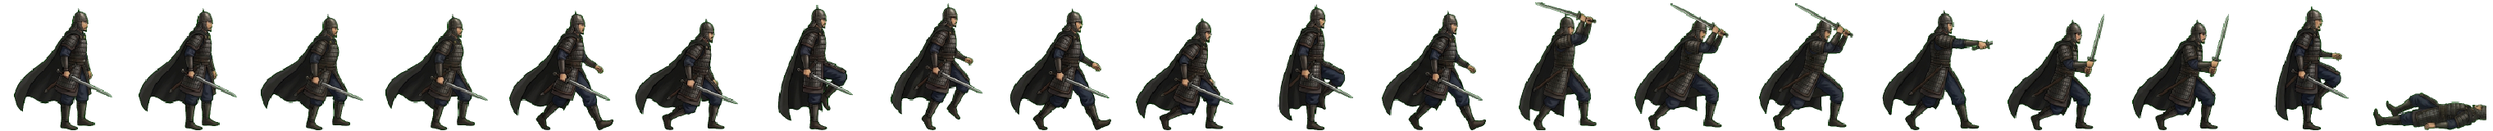
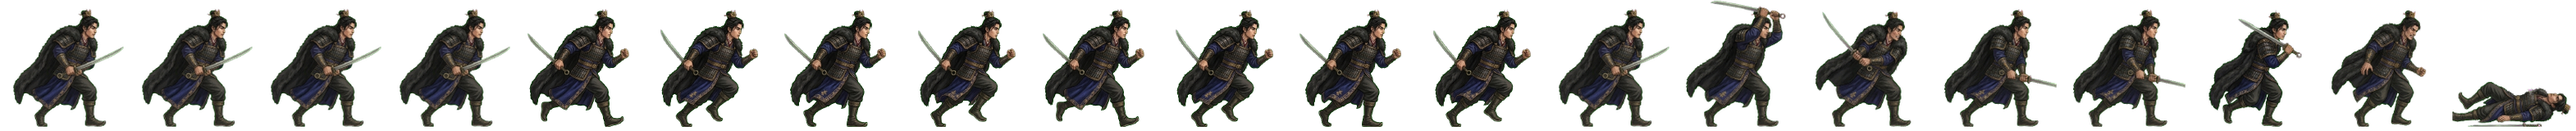
전투 띠 다시: 온조 초상대로 (작은 금관·남색 왕복·검은 털 망토 · 투구를 벗김) (형 11-08)
Claude-Session: https://claude.ai/code/session_01TRiuNAG8xSjdmjCFpc8Rd5

Changed region(s): [[0.0, 0.0, 1.0, 1.0], [0.5938, 0.0312, 0.625, 0.0625]]

diff --git a/src/realm/data/art.ts b/src/realm/data/art.ts
@@ -473,7 +473,7 @@ export const GEN_ANIM: Readonly<Partial<Record<string, { ar: number; body: numbe
   mount: { ar: 246 / 160, body: 0.968 },
   // 제 그림 (GEN_OWN) — 글 주문만으로 받은 장수 (docs/realm/GENERAL-SPRITES.md)
   jumong: { ar: 156 / 160, body: 0.961, bow: true }, // 11-03 20컷 다시 (걷기가 한 자세였다 · 우하단 칸은 비워 받음)
-  onjo: { ar: 152 / 160, body: 0.928 }, // 11-03 20컷 다시 (걷기가 한 자세였다 · 우하단 별표 칸은 따로 받아 끼움) // 첫 판은 불꽃 금관이라 버리고 쇠투구로 다시 (형 10-30: "금관은 왕의 것이지, 장수의 것이 아니야")
+  onjo: { ar: 157 / 160, body: 0.900 }, // 11-08 초상대로 다시 (형: 「투구 쓰고 원본과 다르다」 · 제미나이 걷기 4×2 + 동작 4×2 → 20컷 · assets_src/realm/gemini/generals2)
   soseono: { ar: 156 / 160, body: 0.900 }, // 11-08 초상대로 다시 (형: 「투구 쓰고 원본과 다르다」 · 제미나이 걷기 4×2 + 동작 4×2 → 20컷 · assets_src/realm/gemini/generals2) · 전투 옷은 더 드러나게 (형 11-08)
   aryeong: { ar: 157 / 160, body: 0.900 }, // 11-08 초상대로 다시 (형: 「투구 쓰고 원본과 다르다」 · 제미나이 걷기 4×2 + 동작 4×2 → 20컷 · assets_src/realm/gemini/generals2) · 전투 옷은 더 드러나게 (형 11-08)
   haedal: { ar: 149 / 160, body: 0.900, bow: true }, // 11-08 초상대로 다시 (형: 「투구 쓰고 원본과 다르다」 · 제미나이 걷기 4×2 + 동작 4×2 → 20컷 · assets_src/realm/gemini/generals2) · 전투 옷은 더 드러나게 (형 11-08)

diff --git a/src/ui/realm/battle-strikes.ts b/src/ui/realm/battle-strikes.ts
@@ -142,7 +142,7 @@ const CONTACT: Readonly<Record<string, [number, number, number]>> = {
   'gen-daeso': [14, 0.95, 0.34], 'gen-eureum': [14, .95, .13], 'gen-gamsil': [14, .92, .69],
   'gen-haebi': [14, 0.87, 0.53], 'gen-heo': [14, .97, .38], 'gen-hyeokgeose': [14, 0.83, 0.94],
   'gen-hyeopbo': [14, .93, .21], 'gen-malgalgi': [14, 0.88, 0.28], 'gen-mari': [14, .98, .47],
-  'gen-oi': [14, .98, .48], 'gen-onjo': [15, .98, .33], 'gen-soebi': [14, 0.80, 0.95],
+  'gen-oi': [14, .98, .48], 'gen-onjo': [14, 0.83, 0.93], 'gen-soebi': [14, 0.80, 0.95],
   'gen-soseono': [14, 0.92, 0.31],
   'gen-gaennae': [14, 249 / 264, 47 / 160],
   'gen-budeul': [14, 266 / 280, 51 / 160],
